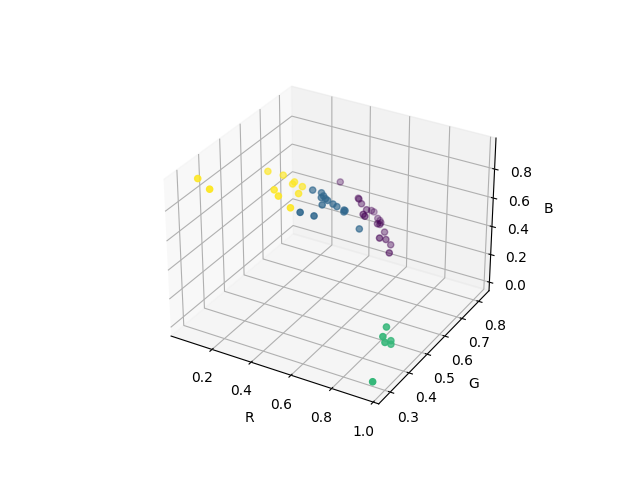
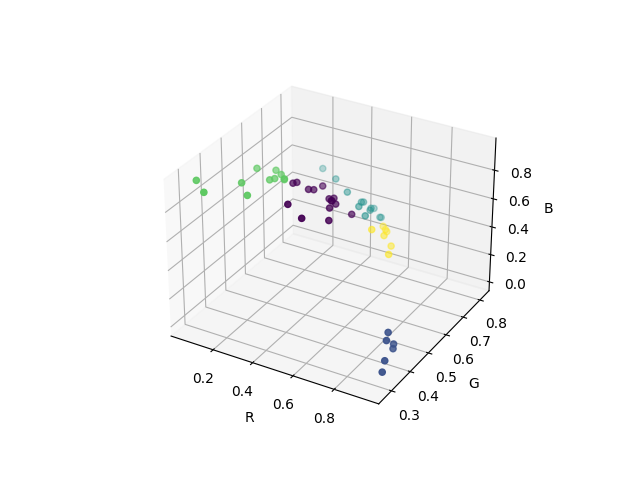
halves

diff --git a/run_pic_analysis_with_halves.py b/run_pic_analysis_with_halves.py
@@ -1,0 +1,74 @@
+import imageio
+import os
+import glob 
+import pandas
+import numpy
+import math
+
+import matplotlib.pyplot as pyplot
+
+from sklearn import preprocessing
+from sklearn.mixture import GaussianMixture
+
+def getrgb(filepath):
+	imimage = imageio.imread(filepath, pilmode="RGB")
+	imimage = imimage/255
+	imimage_top = imimage[0:math.ceil(imimage.shape[0]/2),:]
+	imimage_bottom = imimage[math.ceil(imimage.shape[0]/2):imimage.shape[0],:]
+
+	imimage_top = imimage_top.sum(axis=0).sum(axis=0)/(imimage_top.shape[0]*imimage_top.shape[1])
+	imimage_top = imimage_top/numpy.linalg.norm(imimage_top, ord=None)
+
+	imimage_bottom = imimage_bottom.sum(axis=0).sum(axis=0)/(imimage_bottom.shape[0]*imimage_bottom.shape[1])
+	imimage_bottom = imimage_bottom/numpy.linalg.norm(imimage_bottom, ord=None)
+
+	imimage = numpy.concatenate((imimage_top, imimage_bottom))
+	return imimage
+
+
+dataset = pandas.DataFrame()
+
+for filepath in glob.glob("data/*"):
+	image_features = pandas.DataFrame(getrgb(filepath))
+	image_features = pandas.DataFrame.transpose(image_features)
+	image_features ['path'] = filepath
+	dataset = pandas.concat([dataset, image_features])
+
+print(dataset)
+
+data = dataset.iloc[:,0:3]
+data = preprocessing.normalize(data)
+
+gmm_machine = GaussianMixture(n_components = 5)
+gmm_machine.fit(data)
+gmm_results = gmm_machine.predict(data)
+# print(gmm_results)
+
+dataset['results'] = gmm_results
+
+fig = pyplot.figure()
+ax = fig.add_subplot(projection='3d')
+ax.scatter(dataset[0],dataset[1],dataset[2], c=gmm_results)
+ax.set_xlabel('R')
+ax.set_ylabel('G')
+ax.set_zlabel('B')
+
+fig.savefig('scatterplot.png')
+
+dataset = dataset.sort_values(by=['path'])
+print(dataset)
+
+
+
+
+
+
+
+
+
+
+
+
+
+
+
